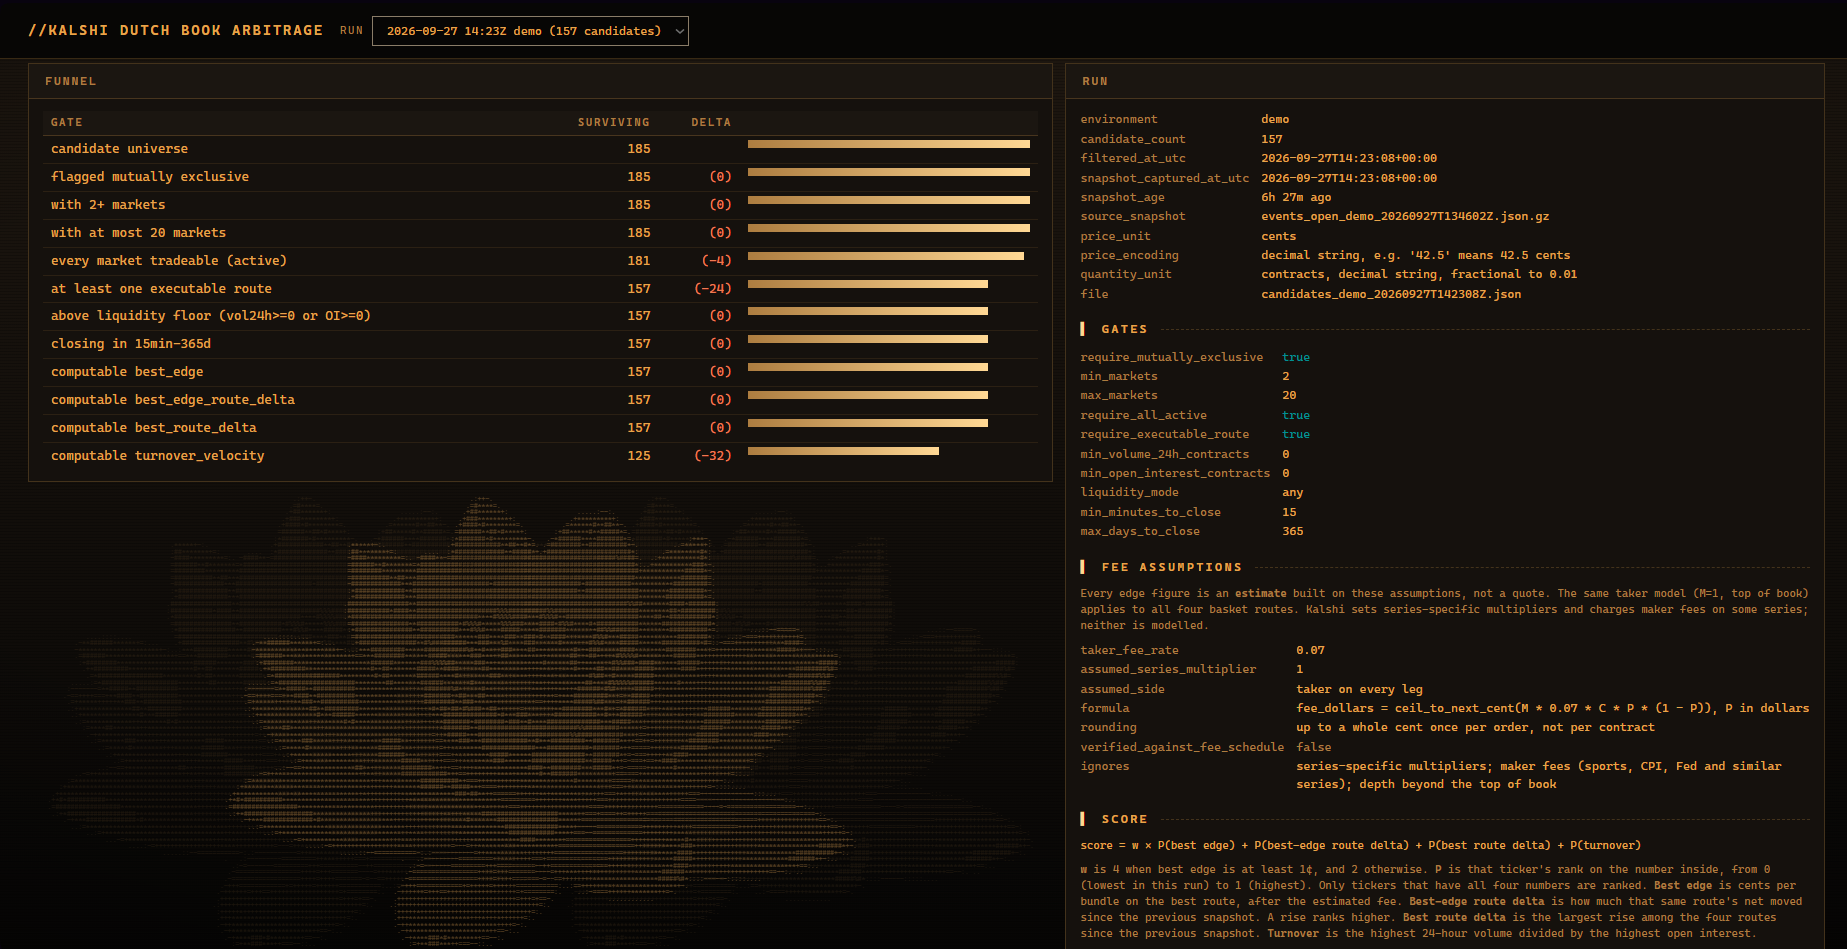
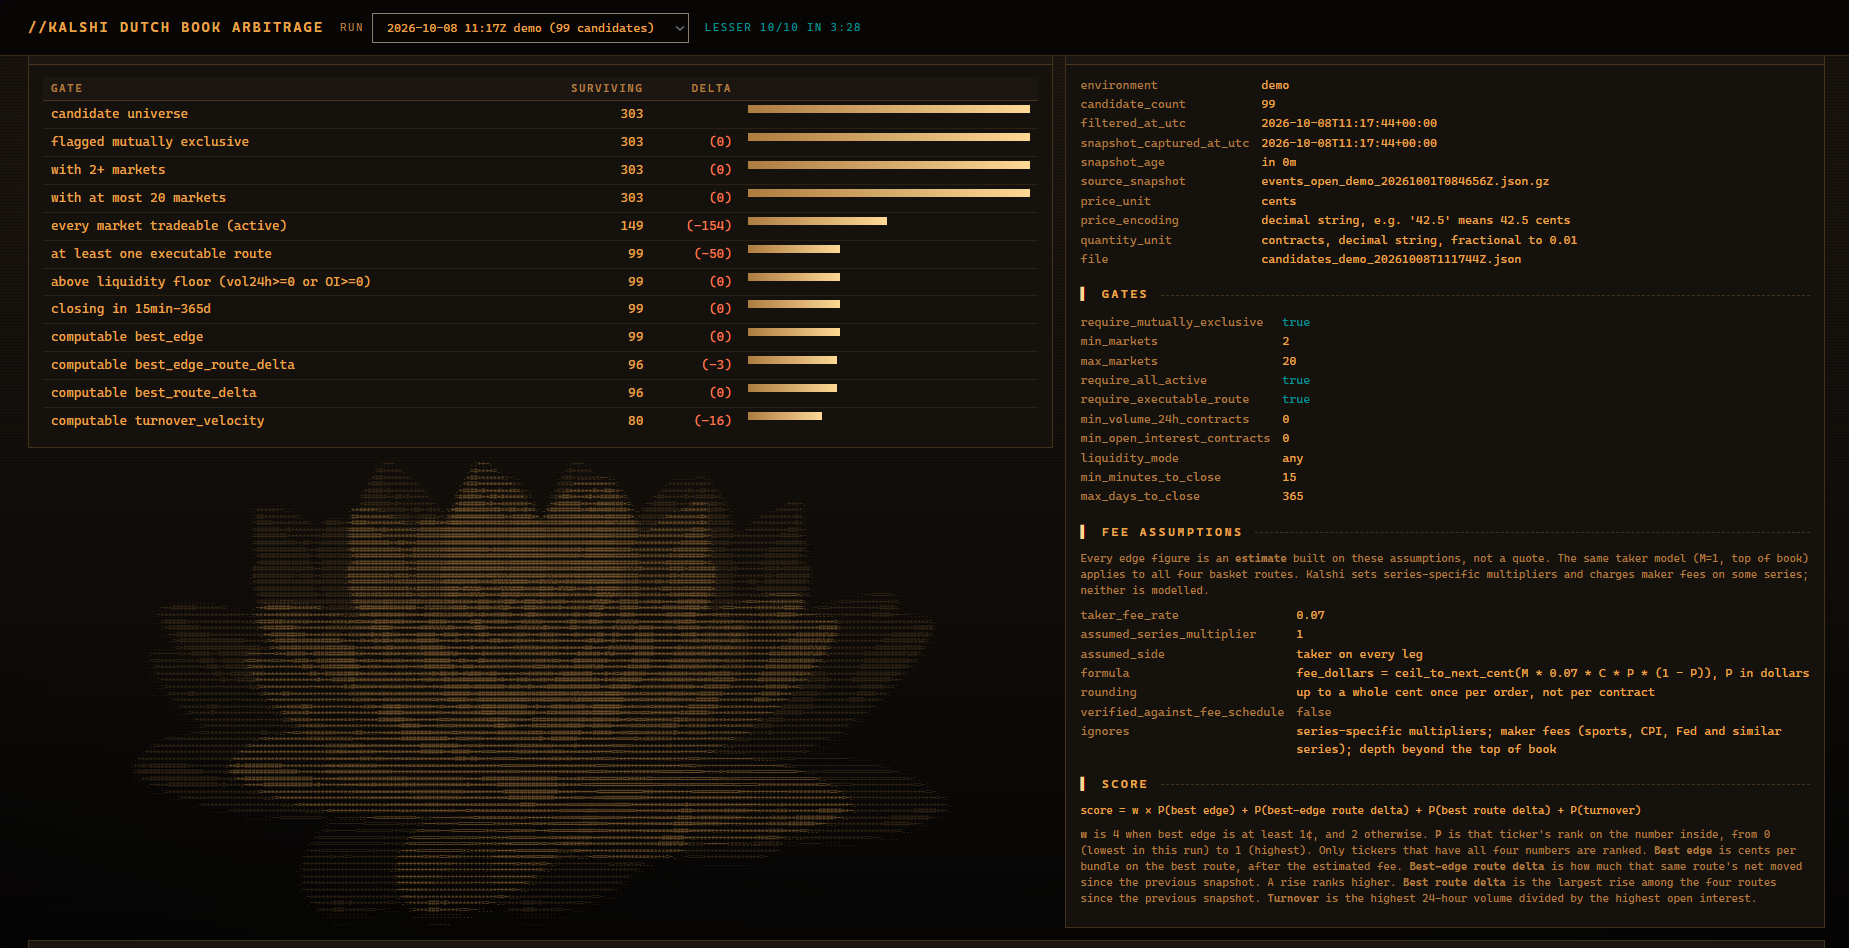
Replace the funnel screenshot so the README shows the latest demo snapshot.

Changed region(s): [[0.0, 0.0, 0.9875, 1.0], [0.0926, 0.4895, 0.4938, 1.0]]

diff --git a/README.md b/README.md
@@ -4,7 +4,7 @@ A scanner and execution engine for Dutch-book (basket) mispricings on [Kalshi](h
 
 Mutually exclusive means at most one market in the event can settle YES. A tournament winner, a game winner, a "which party" market: exactly one contract pays $1.00, so the legs' prices have a known relationship to 100 cents. When the top of the book violates that relationship by more than fees, the basket is a Dutch book. This project finds those baskets, shows why each name survived the filter, and (with dry mode off) trades them.
 
-![Filter funnel, run metadata, gates, and the score formula](ProjectMedia/funnel-and-run.png)
+![Filter funnel, run metadata, gates, and the score formula](ProjectMedia/funnel-and-run.png?v=20261008)
 
 ## The idea
 
